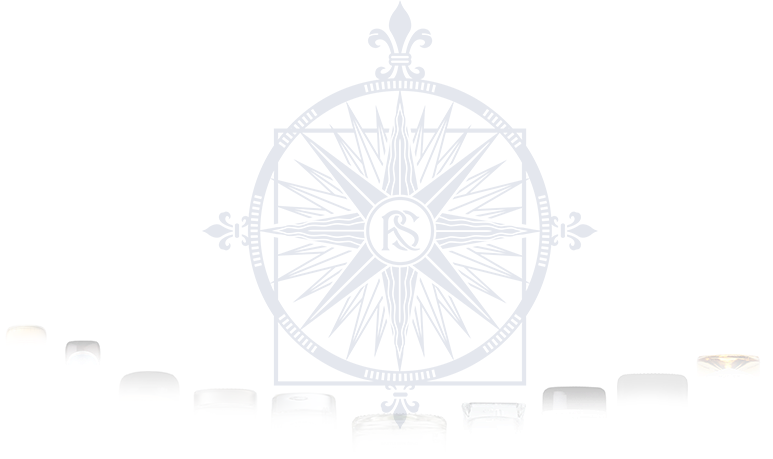
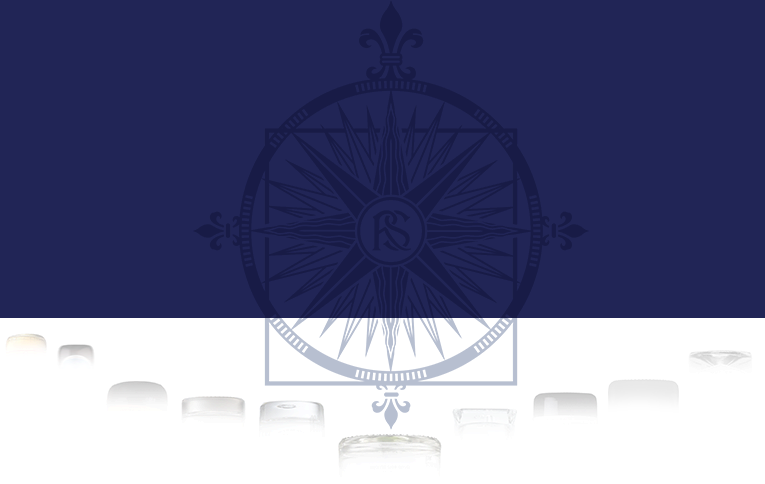
update nosmarque

diff --git a/css/index.css b/css/index.css
@@ -1,1 +1,1 @@
-@font-face{font-family:RS_Bold;src:url(../font/Constantine_Bold.ttf)}@font-face{font-family:RS;src:url(../font/Constantine.ttf)}@font-face{font-family:HT_light;src:url(../font/Helvetica_LT_Light.ttf)}.font_rsb{font-family:RS_Bold}.font_rs{font-family:RS}.font_htl{font-family:HT_light}.full_size{width:100%;height:100%}section{text-align:center;position:relative}body{color:#fff}img{margin:auto}h2{font-weight:400;font-size:22px;font-family:RS_Bold}.button_rs_out{width:154px;height:30px;border:1px solid #fff;position:relative;margin:50px auto;cursor:pointer}.button_rs_in{font-family:HT_light;width:144px;height:38px;border:1px solid #fff;position:absolute;top:-5px;left:4px;padding-top:9px;font-size:13px;letter-spacing:.6pt;font-weight:100}.intro{width:100%;height:100%;position:relative;background-image:url(../img/COUV_RS_BLEUE_BIS.jpg);background-color:#0f1840!important;background-repeat:no-repeat;background-size:cover!important;position:absolute;top:0;left:0;color:rgba(255,255,255,.85);z-index:30;font-family:HT_light}.intro .logo{margin:100px auto 10px auto;width:200px;max-width:60%}.intro .logo img{width:200px}.intro .ui.selection.dropdown,.intro .ui.selection.visible.dropdown>.text:not(.default){background:0 0;color:rgba(255,255,255,.85);border-color:#858585}.intro .ui.selection.dropdown:hover{border-color:rgba(133,133,133,.85)}.intro .ui.inverted.button{color:rgba(255,255,255,.85);box-shadow:0 0 0 1px #858585 inset!important}.intro .ui.inverted.button:hover{color:#000;box-shadow:0 0 0 1px #858585 inset!important}.intro .ui.button{font-size:12px}.intro .dropdown{font-size:12px}.intro .cookie_use,.intro .cookie_use_mobile{width:100%;height:24px;font-size:12px;background-color:rgba(255,255,255,.4);text-align:center;padding-top:5px}.intro .cookie_use i,.intro .cookie_use_mobile i{cursor:pointer}.intro .cookie_use_mobile{display:none}.intro p{text-align:center;font-size:14px}.intro footer{position:absolute;bottom:0;color:gray;font-size:12px;text-align:center;width:100%}@media only screen and (max-width:321px){.intro .ui.grid>.stackable.stackable.row>.column,.intro .ui.stackable.grid>.column.grid>.column,.intro .ui.stackable.grid>.column.row>.column,.intro .ui.stackable.grid>.column:not(.row),.intro .ui.stackable.grid>.row>.column,.intro .ui.stackable.grid>.row>.wide.column,.intro .ui.stackable.grid>.wide.column{padding:.4rem!important}.intro footer{font-size:.8em;line-height:1em}.intro p{font-size:1em}.intro .cookie_use_mobile{display:block}.intro .cookie_use{display:none}}header{cursor:pointer;z-index:20;position:relative}header .menu{position:fixed;top:0;right:0;font-family:RS;background-color:rgba(37,61,115,.8);font-size:14px;width:100%;border-top:3px solid #253d73;text-align:center;height:52px}header .menu .grid{margin-top:3px}header .menu .selectbar{height:2px;background-color:#fff;position:absolute;transition:left .5s ease,width .5s ease;left:0;width:0;bottom:10px;opacity:.5;display:none}header .menu a{color:#fff}header .floating{position:fixed;top:0;right:0;margin:10px;display:none;color:#000;background-color:rgba(255,255,255,.8);box-shadow:rgba(0,0,0,.1) 0 0 8px;width:40px;height:30px}header .floating i{margin:1px 4px}.button_down{position:absolute;bottom:30px;left:50%;margin-left:-15px;margin-top:30px;margin-bottom:10px;animation-name:button_down;animation-duration:.8s;animation-iteration-count:infinite;animation-direction:alternate}.button_down img{width:30px}@keyframes button_down{0%{transform:translateY(0)}100%{transform:translateY(30px)}}.screen1{position:relative;background-image:url(../img/COUV_RS_BLEUE_BIS.jpg);background-color:#0f1840!important;background-repeat:no-repeat;background-size:cover!important;width:100%;height:100%;padding-top:100px;margin-bottom:40px}.screen1 .title .logo{width:160px}.screen1 .title h1{font-family:RS;margin-top:50px;font-weight:400;font-size:27px;letter-spacing:3pt}.screen1 .title p{font-family:HT_light;margin-top:50px;font-size:14px}.screen2{font-family:HT_light;color:#253d73;padding-top:40px;padding-bottom:100px;display:none}.screen2 h2{text-align:center;margin-top:50px;font-family:RS}.screen2 p{margin-top:40px;line-height:24px;font-size:14px}.screen2 .left{text-align:right}.screen2 .right{text-align:center;padding-left:3rem!important}.screen2 .right img{margin-top:50px}.screen2 .right p{text-align:left}.screen3{width:100%;height:100%;height:750px;background-color:#faf4ef;color:#253d73;padding-top:48px}.screen3 .actu{width:640px;height:464px;position:absolute;top:50%;margin-top:-232px;margin-left:-320px;background-color:#fff;transform:scale(1);transform-origin:50% 50%;transition:left 1s ease,transform 1s ease;box-shadow:rgba(0,0,0,.1) 0 0 6px}.screen3 .actu .button{width:48px;height:80px;position:absolute;top:50%;margin-top:-40px;background-color:#212655;transform:scale(1);padding-top:24px;cursor:pointer}.screen3 .actu .button.right{right:0;left:auto}.screen3 .actu .content{margin-top:80px}.screen3 .actu .content img{height:276px}.screen3 .actu p{font-family:HT_light;margin:0 0 .1em;opacity:0;transition:opacity 1s linear;width:80%;margin:auto;font-size:12px}.screen3 .actu img{opacity:.4;transition:opacity 1s linear}.screen3 .actu .title{font-size:16px}.screen3 .fast{transition:none}.screen3 .center{left:50%;transform:scale(1)}.screen3 .center p{opacity:1}.screen3 .center img{opacity:1}.screen3 .left{left:10%;transform:scale(.75)}.screen3 .outleft{left:-50%;transform:scale(.5)}.screen3 .right{left:90%;transform:scale(.75)}.screen3 .outright{left:150%;transform:scale(.5)}.screen4{margin-top:40px;background-color:#ebf4f8;color:#253d73;padding:40px 0 20px 0}.screen4 .bouteilles{background-color:#fff;width:100%;height:140px;margin-top:380px}.screen4 .bouteilles .content{width:773px;margin:auto;position:relative}.screen4 .bouteilles img.background{position:relative;top:-325px}.screen4 .bouteilles img.bouteille{position:absolute;transform-origin:50% 50%;transition:transform .5s ease;cursor:pointer}.screen4 .bouteilles img.bouteille:hover{transform:scale(1.5);z-index:200}.screen4 p{font-family:HT_light;font-size:14px;line-height:30px;margin:40px auto}.screen5{width:100%;height:100%;background-color:#fff;min-height:800px}.screen5 .menu{font-family:RS;font-size:14px;color:#253d73;width:100%;height:15%;min-height:110px}.screen5 .menu h2{margin:28px}.screen5 .menu .column{display:inline-block;cursor:pointer;margin:0 10px 0 10px}.screen5 .menu .twoline{position:relative;top:19px}.screen5 .menu .selectbar{height:3px;background-color:#253d73;position:absolute;transition:left .5s ease,width .5s ease;left:0;width:0;top:110px;display:none}.screen5 .slides{width:100%;height:85%;position:relative}.screen5 .slides .slide{width:100%;height:100%;position:relative;background-image:url(../img/);background-color:#fff!important;background-repeat:no-repeat;background-size:cover!important;position:absolute;top:0;left:0;transition:left 1s ease;overflow:hidden}.screen5 .slides .slide .cover{font-family:HT_light;width:100%;height:100%;position:absolute;top:0;left:100%;color:#fff;min-height:760px;padding-top:7%;transition:left 1s ease}.screen5 .slides .slide .cover .logo{margin:0 auto 50px}.screen5 .slides .slide .cover .logob{margin:0 auto 16px}.screen5 .slides .slide .cover h2{margin-bottom:20px;font-family:HT_light;font-weight:700;font-size:20px}.screen5 .slides .slide .cover p{font-size:14px}.screen6{padding-top:40px;color:#253d73}.screen6 h2{margin-bottom:40px}.screen6 img{height:181px}.screen6 .cover{display:none;position:absolute}.screen6 .cartouche{width:742px;height:384px;margin:0 auto;padding-top:110px}.screen6 .cartouche h2{margin-bottom:0}.screen6 .cartouche p{font-family:RS;font-size:14pt}.screen7{width:100%;height:430px;padding-top:10px;font-family:RS;font-size:14px;color:#9a9c9d;position:relative;background-image:url(../img/vueRS.jpg);background-color:#0f1840!important;background-repeat:no-repeat;background-size:cover!important}.screen7 img.logo{height:200px}.screen7 .grid{margin-top:100px}
+@font-face{font-family:RS_Bold;src:url(../font/Constantine_Bold.ttf)}@font-face{font-family:RS;src:url(../font/Constantine.ttf)}@font-face{font-family:HT_light;src:url(../font/Helvetica_LT_Light.ttf)}.font_rsb{font-family:RS_Bold}.font_rs{font-family:RS}.font_htl{font-family:HT_light}.full_size{width:100%;height:100%}section{text-align:center;position:relative}body{color:#fff}img{margin:auto}h2{font-weight:400;font-size:22px;font-family:RS_Bold}.button_rs_out{width:154px;height:30px;border:1px solid #fff;position:relative;margin:50px auto;cursor:pointer}.button_rs_in{font-family:HT_light;width:144px;height:38px;border:1px solid #fff;position:absolute;top:-5px;left:4px;padding-top:9px;font-size:13px;letter-spacing:.6pt;font-weight:100}.intro{width:100%;height:100%;position:relative;background-image:url(../img/COUV_RS_BLEUE_BIS.jpg);background-color:#0f1840!important;background-repeat:no-repeat;background-size:cover!important;position:absolute;top:0;left:0;color:rgba(255,255,255,.85);z-index:30;font-family:HT_light}.intro .logo{margin:100px auto 10px auto;width:200px;max-width:60%}.intro .logo img{width:200px}.intro .ui.selection.dropdown,.intro .ui.selection.visible.dropdown>.text:not(.default){background:0 0;color:rgba(255,255,255,.85);border-color:#858585}.intro .ui.selection.dropdown:hover{border-color:rgba(133,133,133,.85)}.intro .ui.inverted.button{color:rgba(255,255,255,.85);box-shadow:0 0 0 1px #858585 inset!important}.intro .ui.inverted.button:hover{color:#000;box-shadow:0 0 0 1px #858585 inset!important}.intro .ui.button{font-size:12px}.intro .dropdown{font-size:12px}.intro .cookie_use,.intro .cookie_use_mobile{width:100%;height:24px;font-size:12px;background-color:rgba(255,255,255,.4);text-align:center;padding-top:5px}.intro .cookie_use i,.intro .cookie_use_mobile i{cursor:pointer}.intro .cookie_use_mobile{display:none}.intro p{text-align:center;font-size:14px}.intro footer{position:absolute;bottom:0;color:gray;font-size:12px;text-align:center;width:100%}@media only screen and (max-width:321px){.intro .ui.grid>.stackable.stackable.row>.column,.intro .ui.stackable.grid>.column.grid>.column,.intro .ui.stackable.grid>.column.row>.column,.intro .ui.stackable.grid>.column:not(.row),.intro .ui.stackable.grid>.row>.column,.intro .ui.stackable.grid>.row>.wide.column,.intro .ui.stackable.grid>.wide.column{padding:.4rem!important}.intro footer{font-size:.8em;line-height:1em}.intro p{font-size:1em}.intro .cookie_use_mobile{display:block}.intro .cookie_use{display:none}}header{cursor:pointer;z-index:20;position:relative}header .menu{position:fixed;top:0;right:0;font-family:RS;background-color:rgba(37,61,115,.8);font-size:14px;width:100%;border-top:3px solid #253d73;text-align:center;height:52px}header .menu .grid{margin-top:3px}header .menu .selectbar{height:2px;background-color:#fff;position:absolute;transition:left .5s ease,width .5s ease;left:0;width:0;bottom:10px;opacity:.5;display:none}header .menu a{color:#fff}header .floating{position:fixed;top:0;right:0;margin:10px;display:none;color:#000;background-color:rgba(255,255,255,.8);box-shadow:rgba(0,0,0,.1) 0 0 8px;width:40px;height:30px}header .floating i{margin:1px 4px}.button_down{position:absolute;bottom:30px;left:50%;margin-left:-15px;margin-top:30px;margin-bottom:10px;animation-name:button_down;animation-duration:.8s;animation-iteration-count:infinite;animation-direction:alternate}.button_down img{width:30px}@keyframes button_down{0%{transform:translateY(0)}100%{transform:translateY(30px)}}.screen1{position:relative;background-image:url(../img/COUV_RS_BLEUE_BIS.jpg);background-color:#0f1840!important;background-repeat:no-repeat;background-size:cover!important;width:100%;height:100%;padding-top:100px;margin-bottom:40px}.screen1 .title .logo{width:160px}.screen1 .title h1{font-family:RS;margin-top:50px;font-weight:400;font-size:27px;letter-spacing:3pt}.screen1 .title p{font-family:HT_light;margin-top:50px;font-size:14px}.screen2{font-family:HT_light;color:#253d73;padding-top:40px;padding-bottom:100px;display:none}.screen2 h2{text-align:center;margin-top:50px;font-family:RS}.screen2 p{margin-top:40px;line-height:24px;font-size:14px}.screen2 .left{text-align:right}.screen2 .right{text-align:center;padding-left:3rem!important}.screen2 .right img{margin-top:50px}.screen2 .right p{text-align:left}.screen3{width:100%;height:100%;height:750px;background-color:#faf4ef;color:#253d73;padding-top:48px}.screen3 .actu{width:640px;height:464px;position:absolute;top:50%;margin-top:-232px;margin-left:-320px;background-color:#fff;transform:scale(1);transform-origin:50% 50%;transition:left 1s ease,transform 1s ease;box-shadow:rgba(0,0,0,.1) 0 0 6px}.screen3 .actu .button{width:48px;height:80px;position:absolute;top:50%;margin-top:-40px;background-color:#212655;transform:scale(1);padding-top:24px;cursor:pointer}.screen3 .actu .button.right{right:0;left:auto}.screen3 .actu .content{margin-top:80px}.screen3 .actu .content img{height:276px}.screen3 .actu p{font-family:HT_light;margin:0 0 .1em;opacity:0;transition:opacity 1s linear;width:80%;margin:auto;font-size:12px}.screen3 .actu img{opacity:.4;transition:opacity 1s linear}.screen3 .actu .title{font-size:16px}.screen3 .fast{transition:none}.screen3 .center{left:50%;transform:scale(1)}.screen3 .center p{opacity:1}.screen3 .center img{opacity:1}.screen3 .left{left:10%;transform:scale(.75)}.screen3 .outleft{left:-50%;transform:scale(.5)}.screen3 .right{left:90%;transform:scale(.75)}.screen3 .outright{left:150%;transform:scale(.5)}.screen4{margin-top:40px;background-color:#212655;color:#253d73;padding:40px 0 20px 0}.screen4 h2{color:#fff}.screen4 .bouteilles{background-color:#fff;width:100%;height:240px;margin-top:380px}.screen4 .bouteilles .content{width:773px;margin:auto;position:relative}.screen4 .bouteilles img.background{position:relative;top:-318px}.screen4 .bouteilles img.bouteille{position:absolute;transform-origin:50% 50%;transition:transform .5s ease;cursor:pointer}.screen4 .bouteilles img.bouteille:hover{transform:scale(1.5);z-index:200}.screen4 p{font-family:HT_light;font-size:16px;line-height:30px;margin:40px auto;color:#fff}.screen5{width:100%;height:100%;background-color:#fff;min-height:800px}.screen5 .menu{font-family:RS;font-size:14px;color:#253d73;width:100%;height:15%;min-height:110px}.screen5 .menu h2{margin:28px}.screen5 .menu .column{display:inline-block;cursor:pointer;margin:0 10px 0 10px}.screen5 .menu .twoline{position:relative;top:19px}.screen5 .menu .selectbar{height:3px;background-color:#253d73;position:absolute;transition:left .5s ease,width .5s ease;left:0;width:0;top:110px;display:none}.screen5 .slides{width:100%;height:85%;position:relative}.screen5 .slides .slide{width:100%;height:100%;position:relative;background-image:url(../img/);background-color:#fff!important;background-repeat:no-repeat;background-size:cover!important;position:absolute;top:0;left:0;transition:left 1s ease;overflow:hidden}.screen5 .slides .slide .cover{font-family:HT_light;width:100%;height:100%;position:absolute;top:0;left:100%;color:#fff;min-height:760px;padding-top:7%;transition:left 1s ease}.screen5 .slides .slide .cover .logo{margin:0 auto 50px}.screen5 .slides .slide .cover .logob{margin:0 auto 16px}.screen5 .slides .slide .cover h2{margin-bottom:20px;font-family:HT_light;font-weight:700;font-size:20px}.screen5 .slides .slide .cover p{font-size:14px}.screen6{padding-top:40px;color:#253d73}.screen6 h2{margin-bottom:40px}.screen6 img{height:181px}.screen6 .cover{display:none;position:absolute}.screen6 .cartouche{width:742px;height:384px;margin:0 auto;padding-top:110px}.screen6 .cartouche h2{margin-bottom:0}.screen6 .cartouche p{font-family:RS;font-size:14pt}.screen7{width:100%;height:430px;padding-top:10px;font-family:RS;font-size:14px;color:#9a9c9d;position:relative;background-image:url(../img/vueRS.jpg);background-color:#0f1840!important;background-repeat:no-repeat;background-size:cover!important}.screen7 img.logo{height:200px}.screen7 .grid{margin-top:100px}

diff --git a/index.html b/index.html
@@ -216,16 +216,16 @@
       <div class="bouteilles">
         <div class="content">
           <img class="background" src="img/ombre_bouteilles.png">
-          <img class="bouteille" src="img/tiger.png" style="top: -135px; left: 64px; height: 152px">
-          <img class="bouteille" src="img/Blackwell.png" style="top: -206px; left: 107px; height: 261px">
-          <img class="bouteille" src="img/beluga-transatlantic.png" style="top: -216px; left: 192px; height: 283px">
-          <img class="bouteille" src="img/excellia.png" style="top: -224px; left: 267px; height: 300px">
-          <img class="bouteille" src="img/floraison.png" style="top: -177px; left: 348px; height: 282px">
-          <img class="bouteille" src="img/JUNE.png" style="top: -225px; left: 452px; height: 301px">
-          <img class="bouteille" src="img/LQVR-Rouge750-HR.png" style="top: -205px; left: 538px; height: 269px">
-          <img class="bouteille" src="img/BELAIRE.png" style="top: -200px; left: 618px; height: 252px">
-          <img class="bouteille" src="img/Aqua_UnagedEUS.png" style="top: -128px; left: 696px; height: 167px">
-          <img class="bouteille" src="img/PIMENTO.png" style="top: -107px; left: 6px; height: 114px">
+          <img class="bouteille" src="img/tiger.png" style="top: -123px; left: 61px; height: 152px">
+          <img class="bouteille" src="img/Blackwell.png" style="top: -188px; left: 98px; height: 261px">
+          <img class="bouteille" src="img/beluga-transatlantic.png" style="top: -198px; left: 184px; height: 283px">
+          <img class="bouteille" src="img/excellia.png" style="top: -206px; left: 259px; height: 300px">
+          <img class="bouteille" src="img/floraison.png" style="top: -155px; left: 343px; height: 282px">
+          <img class="bouteille" src="img/JUNE.png" style="top: -209px; left: 447px; height: 301px">
+          <img class="bouteille" src="img/LQVR-Rouge750-HR.png" style="top: -190px; left: 534px; height: 269px">
+          <img class="bouteille" src="img/BELAIRE.png" style="top: -184px; left: 614px; height: 252px">
+          <img class="bouteille" src="img/Aqua_UnagedEUS.png" style="top: -128px; left: 693px; height: 167px">
+          <img class="bouteille" src="img/PIMENTO.png" style="top: -95px; left: 9px; height: 114px">
         </div>
       </div>
       <p>

diff --git a/less/index.less b/less/index.less
@@ -218,14 +218,18 @@ header {
 
  .screen4 {
     margin-top: 40px;
-    background-color: #ebf4f8;
+    background-color: #212655;
     color: @king-blue;
     padding: 40px 0 20px 0;
+
+    h2 {
+        color: white;
+    }
 
     .bouteilles {
         background-color: white;
         width: 100%;
-        height: 140px;
+        height: 240px;
         margin-top: 380px;
         
         .content {
@@ -236,7 +240,7 @@ header {
 
         img.background {
             position: relative;
-            top: -325px;
+            top: -318px;
         }
         img.bouteille {
             position: absolute;
@@ -252,9 +256,10 @@ header {
 
     p {
         .font_htl; 
-        font-size: 14px; 
+        font-size: 16px; 
         line-height: 30px;
         margin: 40px auto;
+        color: white;
     }
  }
 
